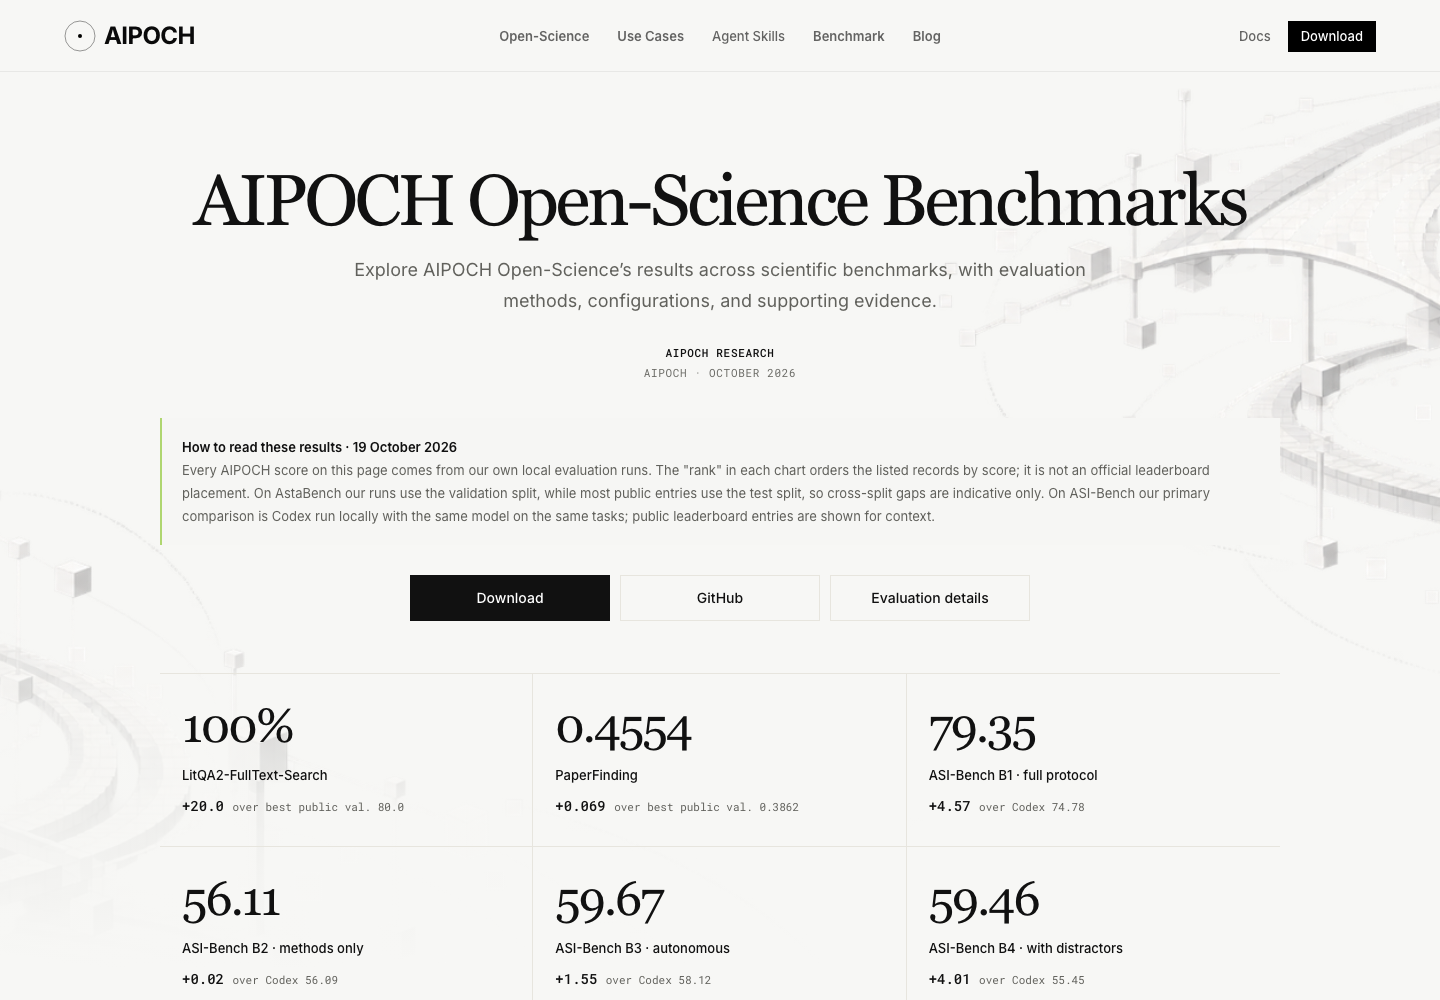
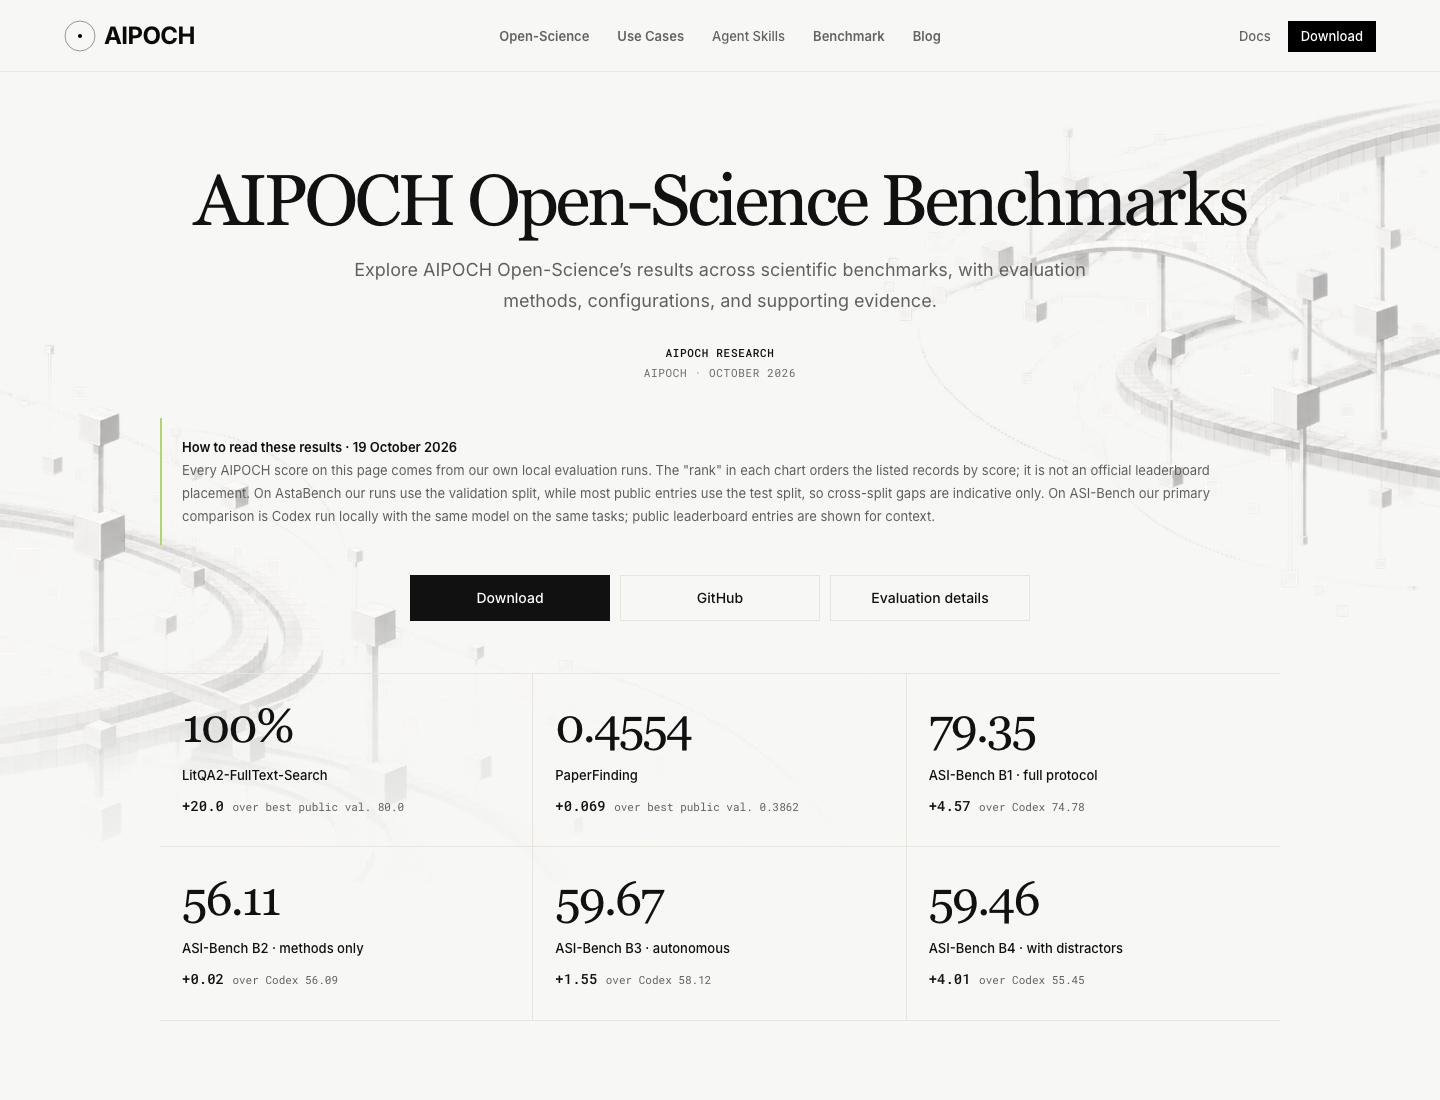
fix(benchmark): align mobile navigation and responsive hero artwork

diff --git a/components/navbar/index.tsx b/components/navbar/index.tsx
@@ -435,8 +435,8 @@ export function Navbar() {
                   : {})}
                 onClick={closeMobileMenu}
                 className={cn(
-                  'my-2 flex w-full items-center justify-between px-3 py-3 text-xs font-semibold uppercase tracking-[0.08em] transition-colors',
-                  action.emphasis ? 'rounded-none' : 'rounded-[8px]',
+                  'my-2 flex w-full items-center justify-between py-3 text-xs font-semibold uppercase tracking-[0.08em] transition-colors',
+                  action.emphasis ? 'rounded-none px-3' : 'rounded-[8px] px-0',
                   action.emphasis
                     ? isDark
                       ? 'bg-white text-black hover:bg-white/90'

diff --git a/app/(commonLayout)/benchmark/open-science/benchmark-hero.tsx b/app/(commonLayout)/benchmark/open-science/benchmark-hero.tsx
@@ -14,8 +14,8 @@ export function BenchmarkHero() {
   return (
     <section className="benchmark-hero">
       <div className="hero-backdrop" aria-hidden="true">
-        {/* biome-ignore lint/performance/noImgElement: Use the exact shared artwork and Figma crop. */}
-        <img src="/figma/audit/75fa7.png" width={1920} height={966} alt="" />
+        {/* biome-ignore lint/performance/noImgElement: Scale the shared artwork edge to edge, preserving its original proportions. */}
+        <img src="/figma/audit/75fa7.png" width={1672} height={941} alt="" />
         <div />
       </div>
       <div className="hero-content">

diff --git a/app/(commonLayout)/benchmark/open-science/benchmark.css b/app/(commonLayout)/benchmark/open-science/benchmark.css
@@ -81,12 +81,9 @@
 .science-benchmark .hero-backdrop img {
   position: absolute;
   top: 0;
-  left: 50%;
-  transform: translateX(-50%);
-  width: 1920px;
-  height: 966px;
-  max-width: none;
-  object-fit: cover;
+  left: 0;
+  width: 100%;
+  height: auto;
 }
 .science-benchmark .hero-backdrop > div {
   position: absolute;
@@ -137,7 +134,7 @@
   max-width: 1120px;
   padding: 18px 20px;
   border-left: 2px solid var(--bench-green);
-  background: #f6f6f4;
+  background: transparent;
   font-size: 13px;
   line-height: 22.75px;
   color: var(--bench-secondary);

diff --git a/docs/reviews/benchmark-open-science/README.md b/docs/reviews/benchmark-open-science/README.md
@@ -14,7 +14,7 @@ Based on `origin/main` at `169eafe`, on branch `codex/benchmark-open-science`.
 
 Figma file: `6zS3GvT25svG6reU1oFKVi`. Boards: All `2823:173`, Local runs `2830:3776`, Public leaderboard `2830:7181`.
 
-The existing `/figma/audit/75fa7.png` exactly matches the supplied Figma hero asset (SHA-1 `7a7bb577e046390c8022bb1779cb72a031dd5754`). Its rendered crop is 1920 × 966, centered behind the hero. The three downloaded ring SVGs under `public/figma/benchmark/` retain their 84 × 84 geometry. All four assets loaded successfully in the browser. Navigation and footer reuse the existing shared components; their existing differences from the Figma board were left outside this page's scope.
+The existing `/figma/audit/75fa7.png` exactly matches the supplied Figma hero asset (SHA-1 `7a7bb577e046390c8022bb1779cb72a031dd5754`). Following the responsive review, it fills the viewport width and preserves its original 1672 × 941 proportions, matching MedSkillAudit's edge-aligned artwork. The three downloaded ring SVGs under `public/figma/benchmark/` retain their 84 × 84 geometry. All four assets loaded successfully in the browser. Navigation and footer reuse the existing shared components.
 
 ## Sitemap
 
@@ -66,3 +66,15 @@ Only `/benchmark/open-science` is affected by this follow-up. Its persistent `OP
 Added a `#f7f7f5` rectangular background and the existing light-gray border to all three query-type cards and all four guidance cards, including mobile layouts. Preserved typography, series colors, SVG assets, and zero corner radius. Renamed the ring wrapper to `benchmark-score-ring`: the previous `ring` class collided with Tailwind's ring utility and introduced a black box shadow around the SVG.
 
 Desktop (1440px) and mobile (390px) browser checks confirmed all seven card backgrounds/borders, zero corner radius, no ring box shadow, unchanged 84px assets, and no horizontal overflow. Desktop screenshots were visually inspected. TypeScript, focused Biome lint, 12 benchmark/sitemap unit tests, and diff whitespace checks passed. The affected URL and persistent modification date remain `/benchmark/open-science` and `2026-10-20`. No protected configuration changed.
+
+## Responsive navigation and hero follow-up — 20 October 2026
+
+Based on `origin/main` at `9b8f151` after PR #41 merged:
+
+- Remove the mobile Docs link's horizontal inset so its text aligns with the primary navigation links. Download retains its button padding.
+- Make the benchmark explanation panel transparent so its rectangular background no longer obscures the hero artwork.
+- Replace the fixed 1920px image width with viewport-width sizing and the original aspect ratio, matching the existing MedSkillAudit shell. Both image edges remain aligned with the page while the content retains its centered maximum width.
+
+Validation: TypeScript, focused Biome lint, 30 navbar/benchmark/sitemap unit tests, and diff whitespace checks passed. Browser checks at 320, 390, 768, 1440, 1920, 2560, and 2880px verified image edge alignment and proportions, transparent panel fill, no horizontal overflow, and mobile Docs/Blog text alignment. Shared mobile navigation was also verified on `/` and `/benchmark/medskillaudit` after full page load. Updated desktop, mobile, wide-screen, and mobile-menu screenshots are included.
+
+The hero affects `/benchmark/open-science`; shared mobile navigation affects the same common-layout URLs enumerated in `sitemap-impact.csv`. Their persistent page and shared-layout dates already equal the actual modification date, `2026-10-20`, so no timestamp change is needed. Sitemap tests continue to preserve newer authoritative dates, independent Wiki dates, and excluded routes. No API contracts or protected operational configuration changed.
